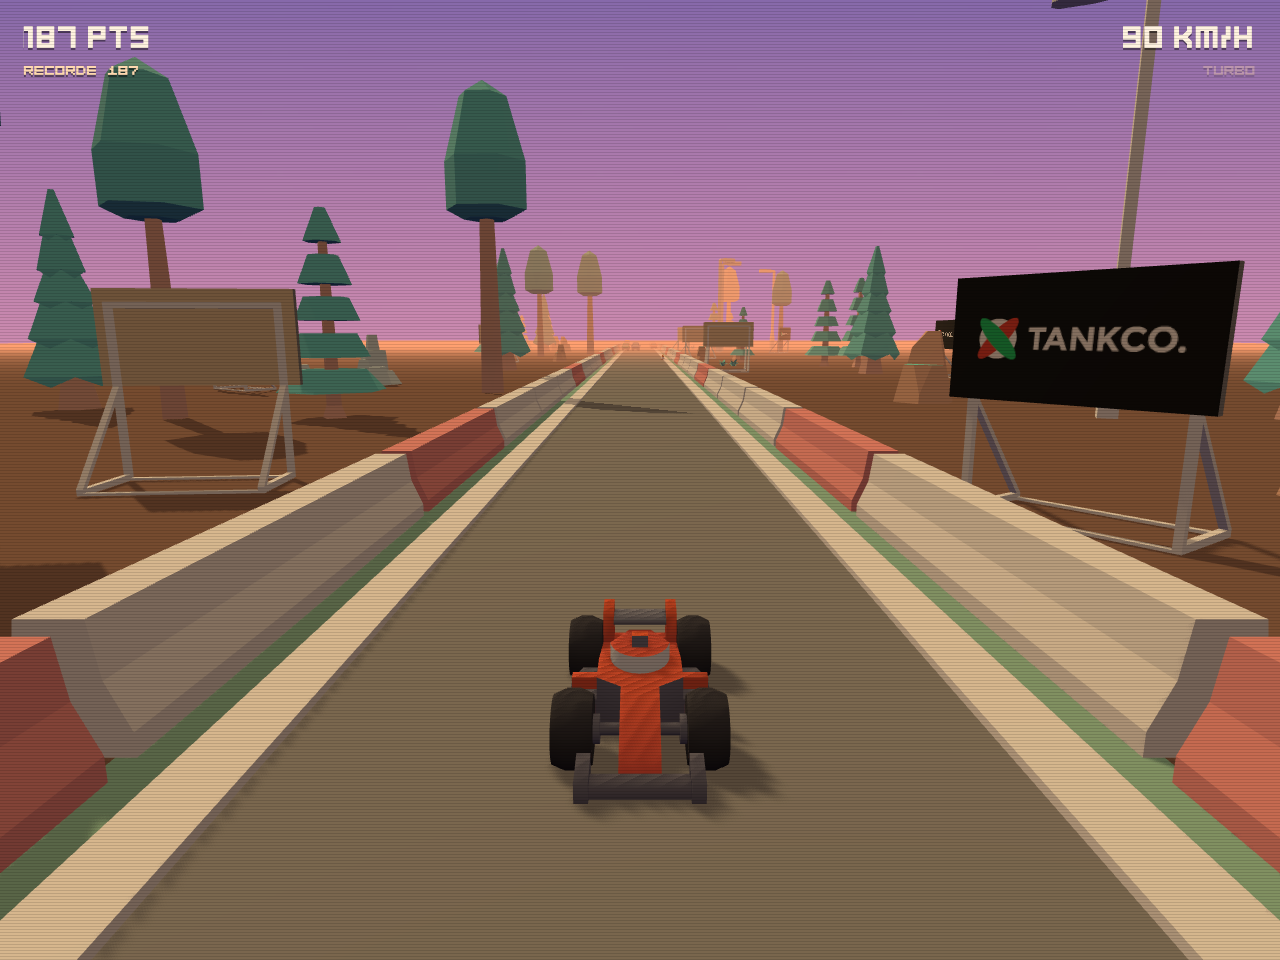
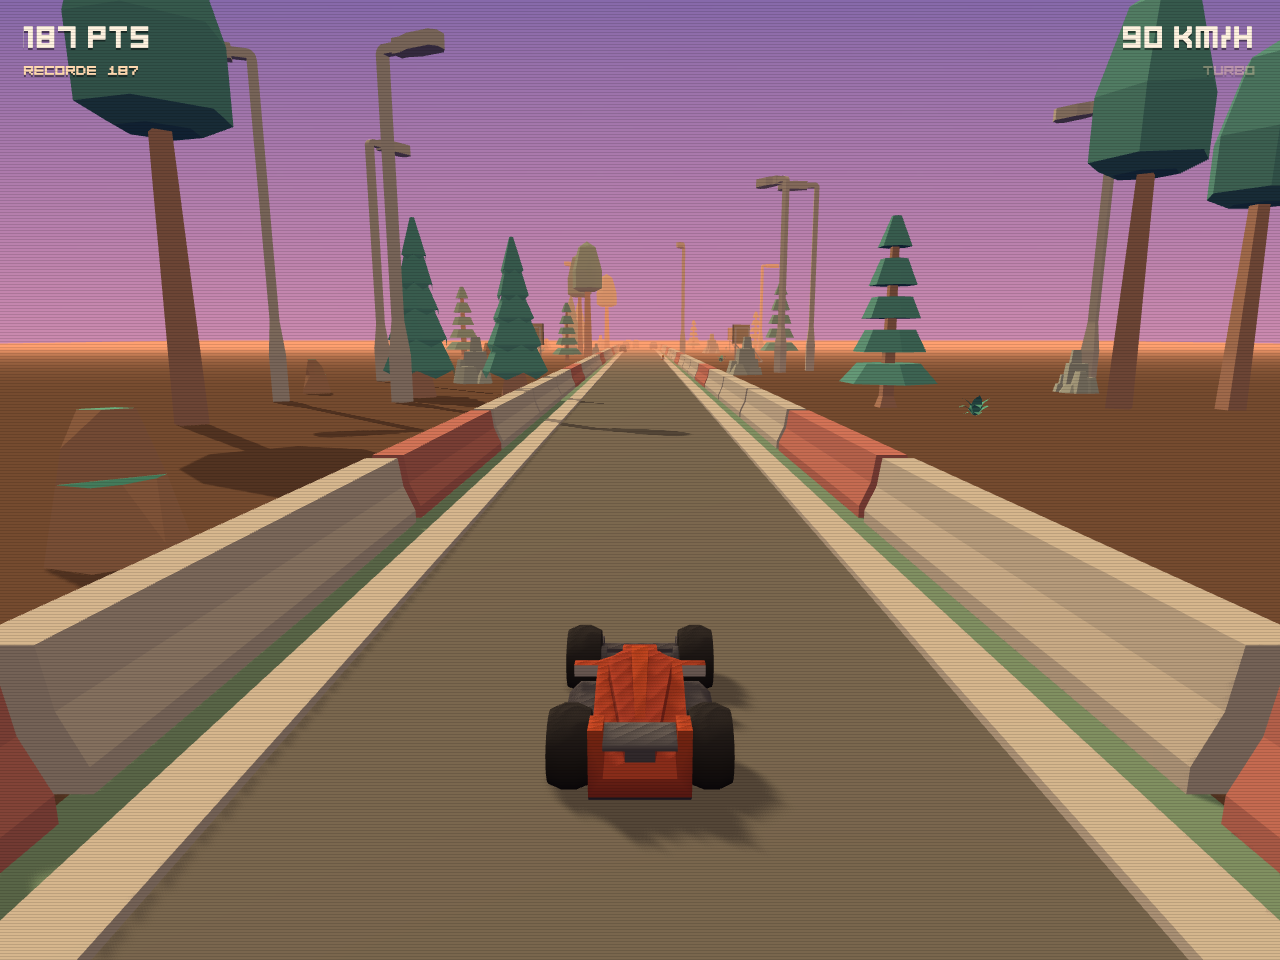
Corrige orientação dos veículos (andavam de ré)
Os modelos do Car Kit apontam para +Z; a pista corre para -Z.
Aplica yaw de 180° ao jogador e ao tráfego no makeInstance.

diff --git a/turbo-rush/js/game.js b/turbo-rush/js/game.js
@@ -140,13 +140,14 @@ function recenter(wrapper, inst) {
 }
 
 // instância com o eixo maior alinhado ao Z e comprimento normalizado
-function makeInstance(name, targetLen) {
+// yaw extra: carros do Car Kit apontam para +Z, mas a pista corre para -Z
+function makeInstance(name, targetLen, yaw = 0) {
   const { obj, size } = LIB[name];
   const wrapper = new THREE.Group();
   const inst = obj.clone(true);
   const s = targetLen / Math.max(size.x, size.z);
   inst.scale.setScalar(s);
-  if (size.x > size.z) inst.rotation.y = Math.PI / 2;
+  inst.rotation.y = (size.x > size.z ? Math.PI / 2 : 0) + yaw;
   wrapper.add(inst);
   return recenter(wrapper, inst);
 }
@@ -234,7 +235,7 @@ function placeProp(p, z) {
 
 function setPlayerCar(name) {
   if (playerGroup) scene.remove(playerGroup);
-  playerGroup = makeInstance(name, 4.3);
+  playerGroup = makeInstance(name, 4.3, Math.PI);
   playerGroup.position.set(laneX(playerLane), 0, 0);
   scene.add(playerGroup);
 }
@@ -251,7 +252,7 @@ function spawnTraffic() {
     usedLanes.add(lane);
     const name = TRAFFIC_MODELS[randi(0, TRAFFIC_MODELS.length - 1)];
     const len = ['truck', 'van', 'ambulance', 'delivery'].includes(name) ? 5.4 : 4.3;
-    const car = makeInstance(name, len);
+    const car = makeInstance(name, len, Math.PI);
     car.position.set(laneX(lane) + rand(-0.2, 0.2), 0, SPAWN_Z);
     car.userData.kmh = rand(45, 80);
     car.userData.lane = lane;
